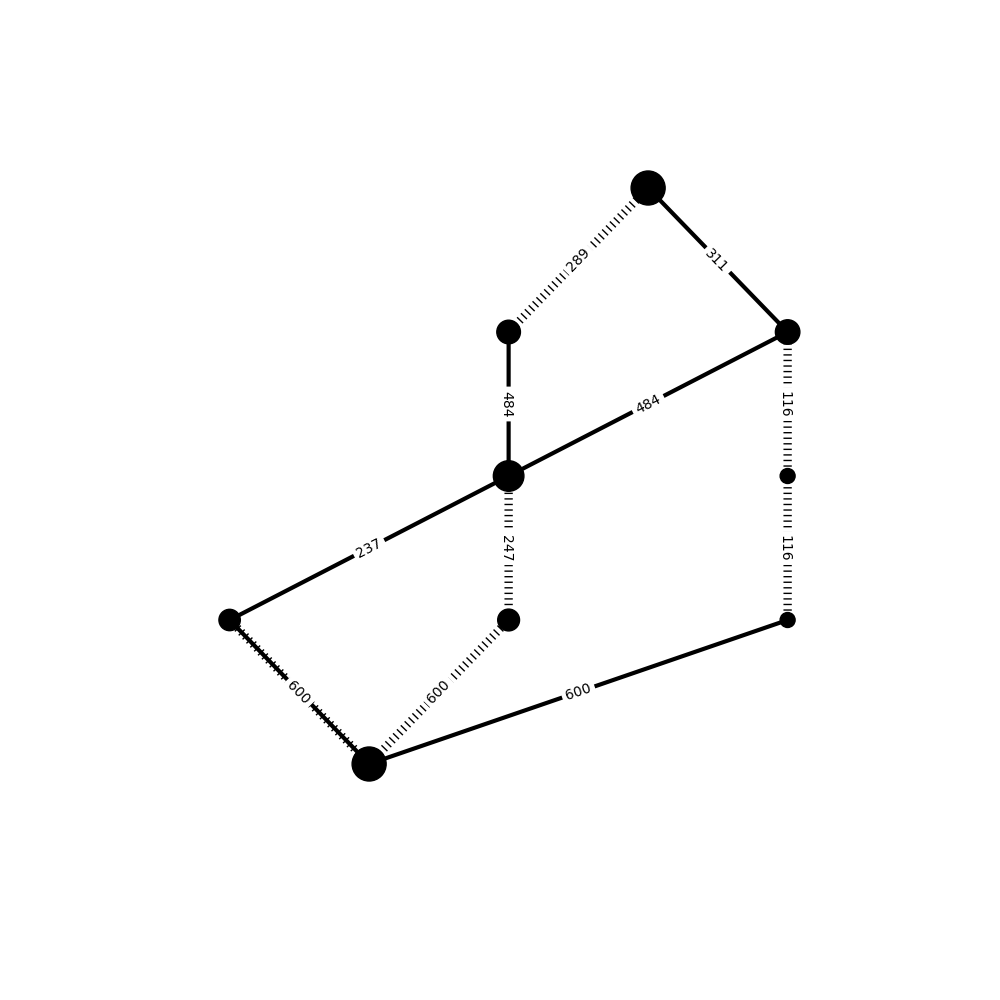
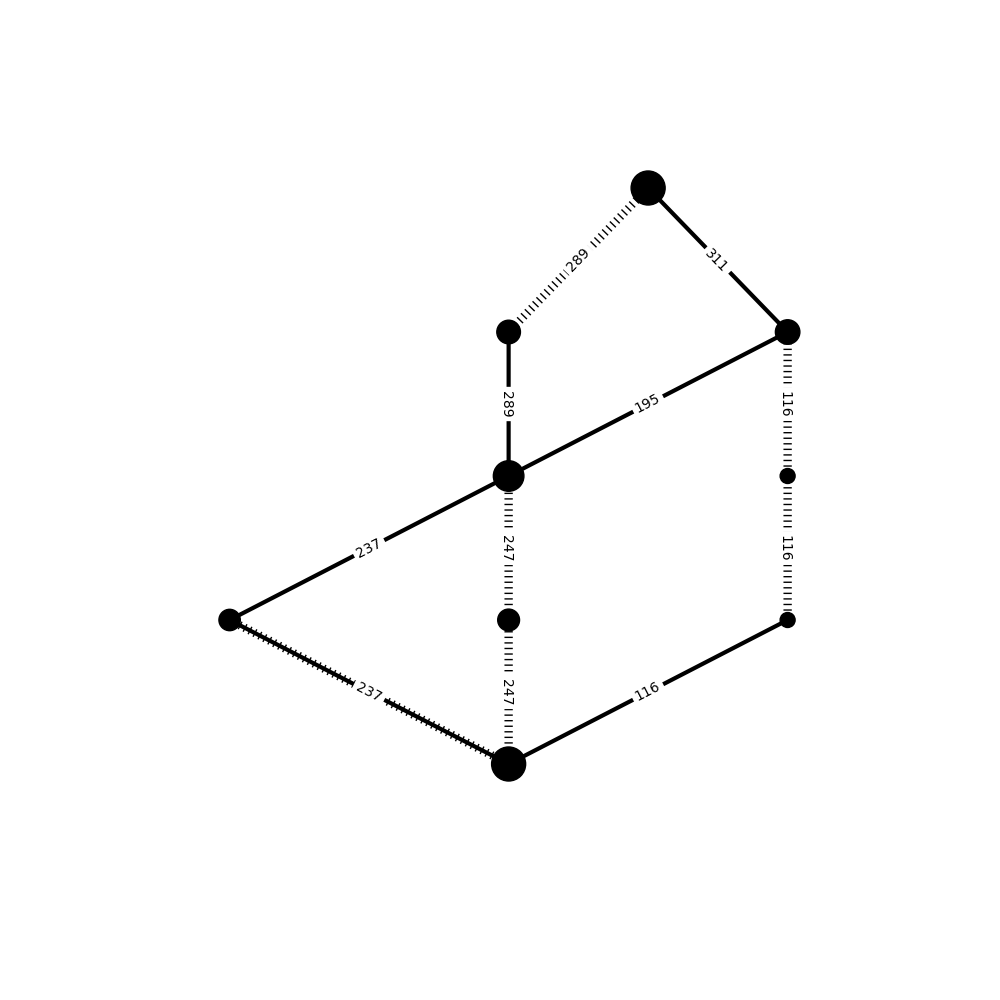
Fixed visualization and added weight attribute to merged edges to prevent loss of information

diff --git a/Code/v3.py b/Code/v3.py
@@ -36,8 +36,7 @@ f.close()
 #Seperate data file line and add each item to corresponding list.
 count = 0
 
-for word in data.split():
-    
+for word in data.split():    
     if count==0:
         #Haplotypes stored as strings and appended to the list haplotype.
         haplotype.append(word)
@@ -87,7 +86,18 @@ def plot_tree(G, name='plot.png'):
     pos = nx.drawing.graphviz_layout(G, prog)
     
     #Mark edges with labels corresponding to the weight of the edge
-    edge_labels=dict([((u,v,),sum(N.node[v]['frequency'])) for u,v,d in N.edges(data=True)])    
+    edge_labels={}
+    for i in G.edges_iter(data=True, keys=True):
+        
+        if len(i[3]) == 1:
+            edge_labels[(i[0],i[1])] = sum(G.node[i[1]]['frequency'])
+        else:
+            if i[2] == 0:
+                edge_labels[(i[0],i[1])] = i[3]['weight']
+               
+            else:
+                weight = edge_labels[(i[0],i[1])] + i[3]['weight']  
+                edge_labels[(i[0],i[1])] = weight  
     
     #Create two edges lists for the different alleles
     allele_1 = [(u,v) for (u,v,d) in N.edges(data=True) if d['allele'] == '1']
@@ -104,15 +114,11 @@ def plot_tree(G, name='plot.png'):
     nx.draw_networkx_edges(N, pos, edgelist=allele_1, node_size=100, width=3, splines=True)
     nx.draw_networkx_edges(N, pos, edgelist=allele_2, node_size=100, width=6, style='dotted', splines=True)
     nx.draw_networkx_edges(N, pos, edgelist=allele_3, node_size=100, width=6, style='dashed', splines=True)
-    #nx.draw(N, pos, node_size=100, node_color='w', edge_color=edge_colours, width=4, with_labels=False)
+
     #Draw edge labels
     nx.draw_networkx_edge_labels(G,pos,ax=None,edge_labels=edge_labels)
     #Draw node labels
     #nx.draw_networkx_labels(G,pos,ax=None)    
-
-    #os.remove('plot.png')
-    #Show plot in window
-    #plt.show()
 
     #Save plot
     plt.savefig(name)
@@ -136,8 +142,7 @@ def nodesplit(G,n,l,level):
                 level[a] = level[a] + 1      
 
 #Function which tests if two nodes are similar enough to merge. Returns True or False.
-def mergetest(a,b):
-  
+def mergetest(a,b):  
     
     #Formula components are calculated
     totala = sum(G.node[a]['frequency'])
@@ -145,8 +150,7 @@ def mergetest(a,b):
     threshold = math.sqrt(math.pow(totala, -1) + math.pow(totalb, -1))
     maxscore = 0
     alevel = [1]*(len(G.node[a]['haplotype'][0])+1)
-    blevel = [1]*(len(G.node[a]['haplotype'][0])+1)
-    
+    blevel = [1]*(len(G.node[a]['haplotype'][0])+1)    
 
     #Subgraphs A and B are created in order to calculate similarity score
     A=nx.DiGraph()
@@ -159,9 +163,7 @@ def mergetest(a,b):
     q = [[1,1,0]]
 
     while len(q) != 0:
-        print q[0]
-
-
+        
         #Splits nodes subgraphs
         nodesplit(A,q[0][0],q[0][2],alevel)
         nodesplit(B,q[0][1],q[0][2],blevel)
@@ -198,25 +200,26 @@ def mergetest(a,b):
                     maxscore = score               
                 a = [v for u,v,edata in A.out_edges(q[0][0],data=True) if edata['allele']==i]                               
                 b = [v for u,v,edata in B.out_edges(q[0][0],data=True) if edata['allele']==i]
-
                 
                 #Adds next nodes to list if edges has passed edge test            
                 if len(A.node[a[0]]['haplotype'][0]) != 0:
                     q.append([a[0],b[0],q[0][2]+1])
-
+                    
         q.pop(0)
   
     return maxscore
 
 #Function merges 2 nodes
 def mergenodes(a,b):
-    print "nodes are merged"
-    print a,b
     global G
-    
+
+    #Add weight attribute to merged edge so that information is not lost
+    for i in G.in_edges(a, data=True, keys=True):
+        G.add_edge(i[0],i[1],key=i[2],allele=i[3]['allele'],weight=sum(G.node[a]['frequency']))
+            
     #Iterates through list of haplotypes on second node
     for i in range(len(G.node[b]['haplotype'])):
-        #
+        #Add weights of haplotypes of b to a       
         if G.node[b]['haplotype'][i] in [j for j in G.node[a]['haplotype']]:
             index = [j for j in G.node[a]['haplotype']].index(G.node[b]['haplotype'][i])
             G.node[a]['frequency'][index] = G.node[a]['frequency'][index] + G.node[b]['frequency'][i]
@@ -224,9 +227,10 @@ def mergenodes(a,b):
             G.node[a]['haplotype'].append(G.node[b]['haplotype'][i])
             G.node[a]['frequency'].append(G.node[b]['frequency'][i])
 
+    #Move all incoming edges of b to a
     for i in G.in_edges(b, data=True):
-        G.add_edge(i[0],a,allele=i[2]['allele'])
-        G.remove_edge(i[0],i[1])
+        G.add_edge(i[0],a,allele=i[2]['allele'],weight=sum(G.node[b]['frequency']))
+        G.remove_edge(i[0],i[1])   
 
     G.remove_node(b)
     
@@ -234,15 +238,9 @@ def mergenodes(a,b):
     for i in glevel:
         if b <= i:
             glevel[glevel.index(i)] = glevel[glevel.index(i)] - 1
-            
-    for i in G.nodes_iter(data=True):
-        print i
 
-
+    #Relablel nodes so that they are consecutive integers
     G = nx.convert_node_labels_to_integers(G, first_label=1, ordering="sorted")
-    for i in G.nodes_iter(data=True):
-        print i
-
 
 #Merge function carries out pairwise test between all nodes on each level and merges the lowest scoring
 #nodes. This repeats in a cycle on each level until no more merges can be made
@@ -300,19 +298,9 @@ G=nx.MultiDiGraph()
 G.add_node(1,haplotype=haplotype,frequency=frequency)
 nodesplit(G,1,0,glevel)
 
-print 'Edges in Graph'
-for i in G.edges(data=True):
-    print i
-print 'Nodes in Graph'
-for i in G.nodes_iter(data=True):
-    print i
-print 'glevel'
-print glevel
-
 #Iterate through each successive level.
 for i in range(1,haplolength):
-    print "i"
-    print i
+
     #Carry out the merge function for each level.
     merge(i)
     
@@ -321,26 +309,27 @@ for i in range(1,haplolength):
     for j in range(glevel[i-1]+1,glevel[i]+1):
         nodesplit(G,j,i,glevel)
 
-
+#Set endnode as first node in last level
 endnode = glevel[haplolength-1] + 1
-for i in range(glevel[haplolength-2]+1,glevel[haplolength-1]+1):
-    for j in G.out_edges(i, data=True):
+
+#Add weight attribute to all incoming edges so that information is not lost
+for i in G.in_edges(endnode, data=True, keys=True):
+    G.add_edge(i[0],i[1],key=i[2],allele=i[3]['allele'],weight=sum(G.node[i[1]]['frequency']))
+
+#Add edges ending in last level are moved to connect to endnode
+for i in range(glevel[haplolength-2]+1,glevel[haplolength-1]+1):   
+    for j in G.out_edges(i, data=True):        
         if j[1] != endnode:
-            G.add_edge(j[0],endnode,allele=j[2]['allele'])
+            G.add_edge(j[0],endnode,allele=j[2]['allele'],weight=sum(G.node[j[1]]['frequency']))
             G.node[endnode]['frequency'][0]=G.node[endnode]['frequency'][0]+G.node[j[1]]['frequency'][0]
             G.remove_edge(j[0],j[1])
 
+#Remove all nodes which are labelled above the endnode
 for i in range(glevel[haplolength-1]+2, glevel[haplolength]+1):
     G.remove_node(i)
+
+#Set glevel so it is correct    
 glevel[haplolength]=endnode
     
-plot_tree(G, name='v3')
-
-print 'Edges in Graph'
-for i in G.edges(data=True):
-    print i
-print 'Nodes in Graph'
-for i in G.nodes_iter(data=True):
-    print i
-print 'glevel'
-print glevel
+#Plot resulting tree
+plot_tree(G, name='v3.png')
